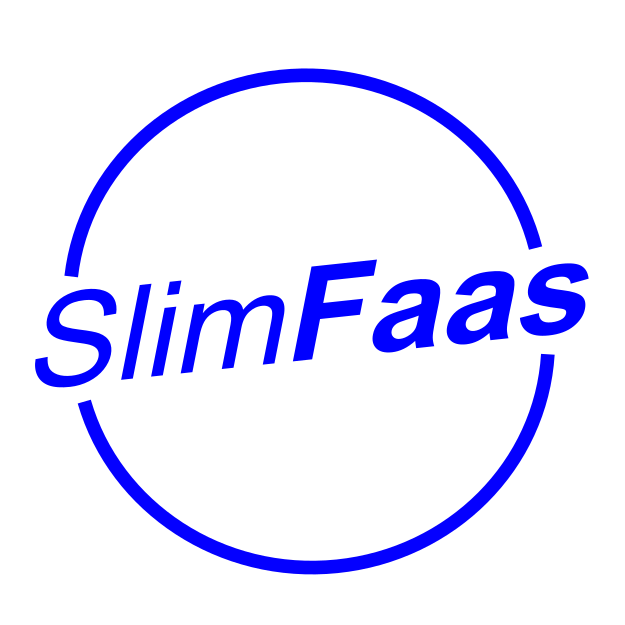
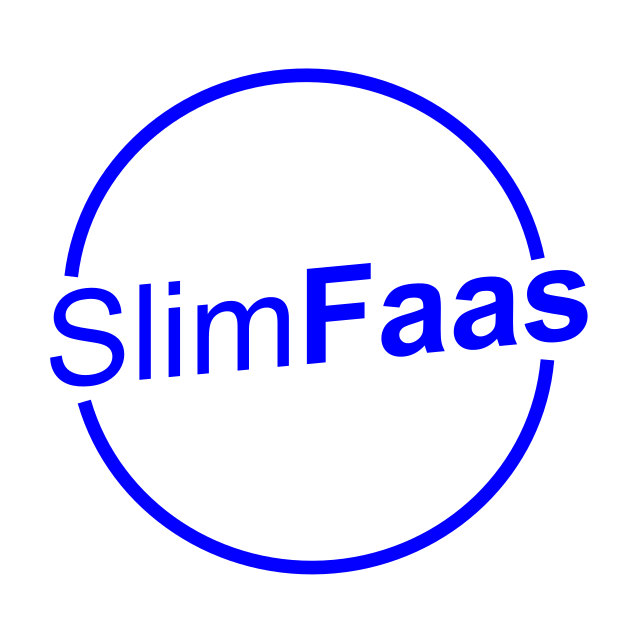
doc: trademark lf footer  (#92)
* doc: trademark lf footer

* doc: add slimfaas cncf slack

* doc : set actual logo

---------

Changed region(s): [[0.0304, 0.3952, 0.9424, 0.6384]]

diff --git a/README.md b/README.md
@@ -1,4 +1,4 @@
-# SlimFaas : The slimest and simplest Function As A Service [![Continuous Integration](https://github.com/SlimPlanet/SlimFaas/actions/workflows/slimfaas-ci.yaml/badge.svg)](https://github.com/SlimPlanet/SlimFaas/actions/workflows/slimfaas-ci.yaml) [![Quality Gate](https://sonarcloud.io/api/project_badges/measure?project=SlimPlanet_SlimFaas&metric=alert_status)](https://sonarcloud.io/dashboard?id=SlimPlanet_SlimFaas) [![Reliability](https://sonarcloud.io/api/project_badges/measure?project=SlimPlanet_SlimFaas&metric=reliability_rating)](https://sonarcloud.io/component_measures?id=SlimPlanet_SlimFaas&metric=reliability_rating) [![Security](https://sonarcloud.io/api/project_badges/measure?project=SlimPlanet_SlimFaas&metric=security_rating)](https://sonarcloud.io/component_measures?id=SlimPlanet_SlimFaas&metric=security_rating) [![Code Corevage](https://sonarcloud.io/api/project_badges/measure?project=SlimPlanet_SlimFaas&metric=coverage)](https://sonarcloud.io/component_measures?id=SlimPlanet_SlimFaas&metric=Coverage)
+# SlimFaas : The slimmest and simplest Function As A Service [![Continuous Integration](https://github.com/SlimPlanet/SlimFaas/actions/workflows/slimfaas-ci.yaml/badge.svg)](https://github.com/SlimPlanet/SlimFaas/actions/workflows/slimfaas-ci.yaml) [![Quality Gate](https://sonarcloud.io/api/project_badges/measure?project=SlimPlanet_SlimFaas&metric=alert_status)](https://sonarcloud.io/dashboard?id=SlimPlanet_SlimFaas) [![Reliability](https://sonarcloud.io/api/project_badges/measure?project=SlimPlanet_SlimFaas&metric=reliability_rating)](https://sonarcloud.io/component_measures?id=SlimPlanet_SlimFaas&metric=reliability_rating) [![Security](https://sonarcloud.io/api/project_badges/measure?project=SlimPlanet_SlimFaas&metric=security_rating)](https://sonarcloud.io/component_measures?id=SlimPlanet_SlimFaas&metric=security_rating) [![Code Corevage](https://sonarcloud.io/api/project_badges/measure?project=SlimPlanet_SlimFaas&metric=coverage)](https://sonarcloud.io/component_measures?id=SlimPlanet_SlimFaas&metric=Coverage)
 [![Docker SlimFaas](https://img.shields.io/docker/pulls/axaguildev/slimfaas.svg?label=docker+pull+slimfaas)](https://hub.docker.com/r/axaguildev/slimfaas/builds) [![Docker Image Size](https://img.shields.io/docker/image-size/axaguildev/slimfaas?label=image+size+slimfaas)](https://hub.docker.com/r/axaguildev/slimfaas/builds)
 [![Docker Image Version](https://img.shields.io/docker/v/axaguildev/slimfaas?sort=semver&label=latest+version+slimfaas)](https://hub.docker.com/r/axaguildev/slimfaas/builds)
 
@@ -477,6 +477,20 @@ Why .NET?
 4. New pod to "Wake up" from External Source (example: Kafka, etc.) using https://cloudevents.io/ as standard https://github.com/cloudevents/sdk-csharp
 5. Continue Optimization
 
+## We are a Cloud Native Computing Foundation sandbox project.
+https://landscape.cncf.io
+
+<img src="https://www.cncf.io/wp-content/uploads/2022/07/cncf-stacked-color-bg.svg" />
+
+### SlimFaas Slack Channel
+
+Join us on Slack:
+https://cloud-native.slack.com/archives/C08CRC77VDE
+
+### Trademark Guidelines
+The Linux Foundation® (TLF) has registered trademarks and uses trademarks. For a list of TLF trademarks, see [Trademark Usage](https://www.linuxfoundation.org/legal/trademark-usage).
+
 ## Code of Conduct
 
 SlimFaas project has adopted the [CNCF Code of Conduct](https://github.com/cncf/foundation/blob/main/code-of-conduct.md)
+
